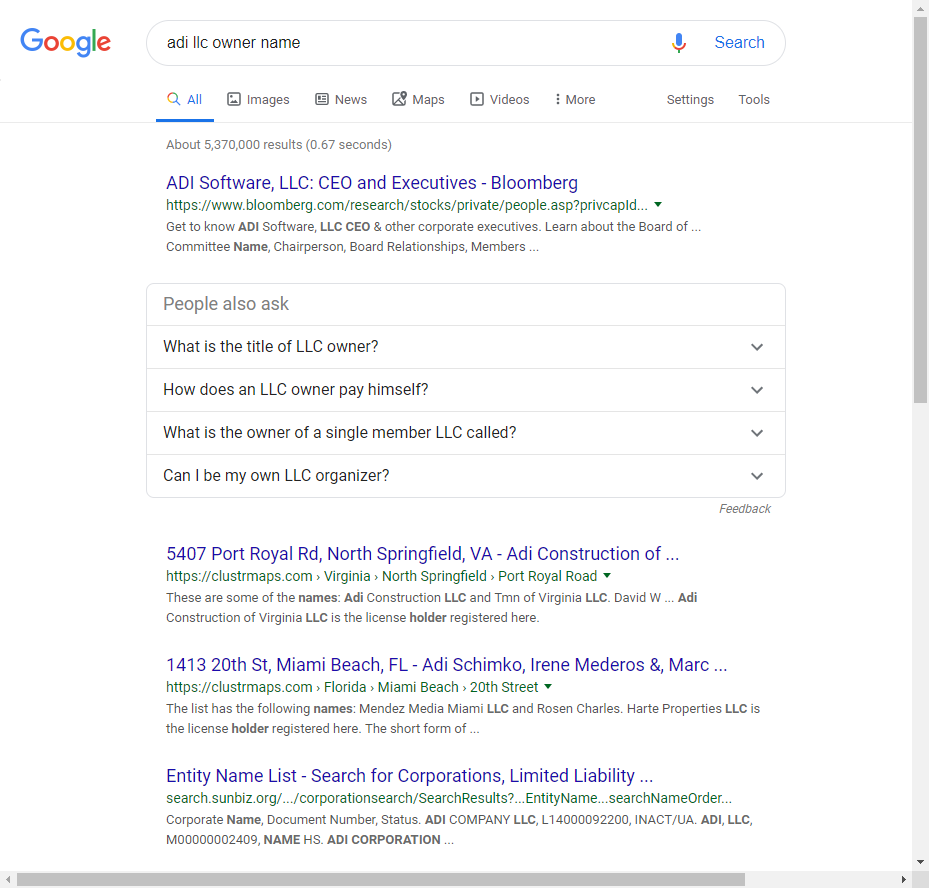
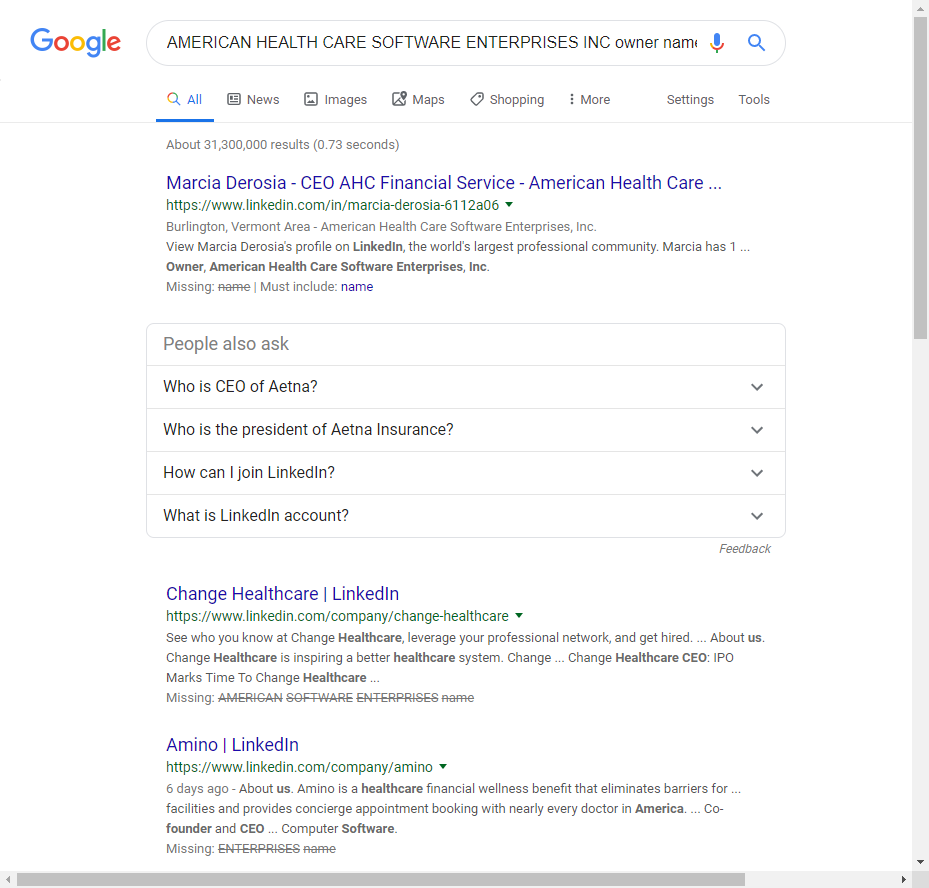
parsing google

diff --git a/sales.py b/sales.py
@@ -1,0 +1,55 @@
+import csv
+from selenium import webdriver
+from selenium.webdriver.common.keys import Keys
+import requests
+from bs4 import BeautifulSoup
+import time
+import json
+from html.parser import HTMLParser
+
+#initialize driver
+
+CHROMEDRIVER_PATH = "c:\Repo\chromedriver\chromedriver"
+
+driver = webdriver.Chrome(CHROMEDRIVER_PATH)
+
+# NAVIGATE TO GOOGLE.COM...
+
+driver.get("https://www.google.com/")
+#driver.get("https://www.buzzfile.com/Home/Basic") #https://www.buzzfile.com/Home/Basic
+print(driver.title) #> Google
+driver.save_screenshot("search_page.png")
+
+# FIND AN ELEMENT TO INTERACT WITH...
+# a reference to the HTML element:
+# <input title="Search">
+
+searchbox_xpath = '//input[@title="Search"]'
+#searchbox_xpath = '//input[@value=""]'
+#searchbox_xpath = '//input[@placeholder="SearchbyCompanyName"]'
+#searchbox = driver.find_element_by_name('searchTerm')
+searchbox = driver.find_element_by_xpath(searchbox_xpath)
+
+# INTERACT WITH THE ELEMENT
+
+search_term = "AMERICAN HEALTH CARE SOFTWARE ENTERPRISES INC owner name linkedin owner"
+searchbox.send_keys(search_term)
+
+searchbox.send_keys(Keys.RETURN)
+#print(driver.title) #> 'Prof Rossetti GitHub - Google Search'
+driver.save_screenshot("search_results.png")
+
+soup = BeautifulSoup(driver.page_source, features = "lxml")
+#soup = BeautifulSoup(driver.page_source, 'html.parser')
+companylinks = soup.find_all("div", "r")
+#companylinks = soup.find_all("span", "company-trade-style") # class name and what class equals
+
+
+title2 = soup.h3
+print(title2)
+
+
+#linkedin = companylinks["a href"]
+#print(linkedin)
+
+#driver.quit()
